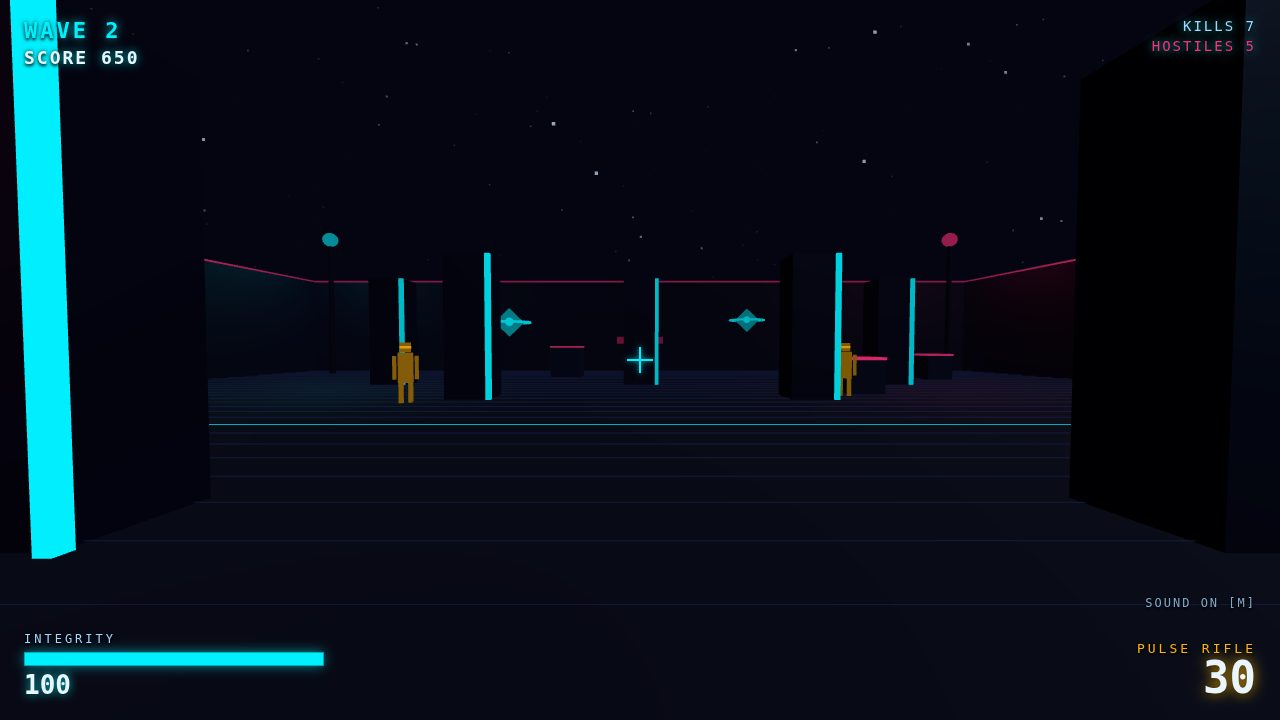
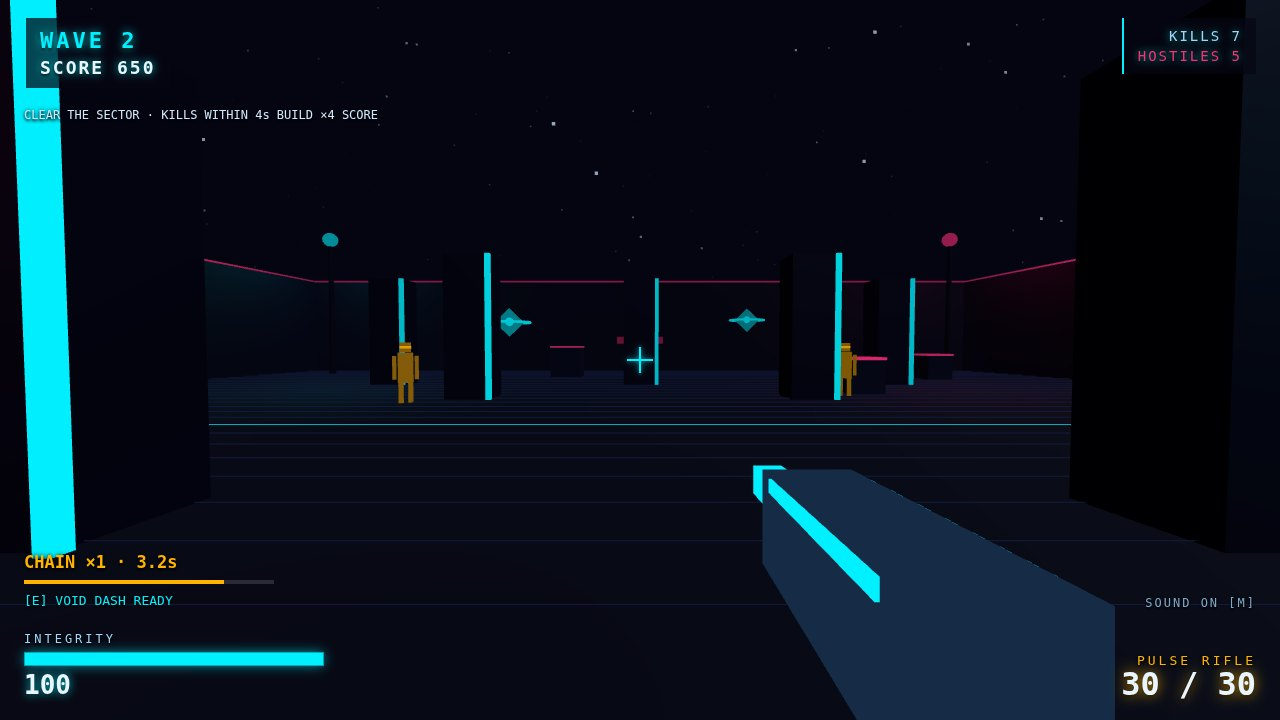
Publish verified WebGL screenshots and build evidence; bind checks to source revision

diff --git a/docs/COMPETITION-REVIEW.md b/docs/COMPETITION-REVIEW.md
@@ -3,6 +3,12 @@
 本次审阅基线：79612745b9403210dde6b35092bb952c81a9739c。
 官方来源：https://make.fun/bounty/best-game-01 和 https://make.fun/api/competitions/best-game-01/requirements 。
 
+## 后续完善与验证
+
+已补充第一人称武器模型、连杀层级反馈、结算峰值倍率/生存时长/冲刺次数、灵敏度和减少动态效果选项。GitHub Actions 已通过真实Chromium交互检查和四张截图生成（运行44032587707，源码f7aad7a）。screenshots/现已更新；下文原先的本地浏览器限制是第一轮评估的历史记录。
+
+验证证据位于 docs/evidence/，生成命令及原始会话缺口见 BUILD-RECORDS.md。原始会话、真实provider usage和官方参赛bundle仍未补齐，不应把CI通过等同于奖金资格通过。
+
 ## 结论
 
 v1 已有双武器、三种敌人、完整波次与结算。继续增加普通敌人数量的收益有限；优先提升可辨认的机制、开局/重开可操作性、缩略截图的信息层级，以及付款资格的构建记录完整性。无法据源码推算名次或保证奖金。

diff --git a/README.md b/README.md
@@ -12,7 +12,7 @@ NEON VOID is a neon arena wave-survival FPS that runs in a desktop browser from 
 node serve.ts
 ```
 
-Then open http://localhost:8080 . The local server supplies ES module MIME types; no internet connection or build step is needed during play.
+Then open http://localhost:8080. The local server supplies ES module MIME types; no internet connection or build step is needed during play.
 
 ---
 
@@ -31,7 +31,7 @@ node --experimental-loader ./tests/three-loader.mjs tests/gameplay.mjs
 MAKEFUN_OUTPUT_DIR=out node main.ts
 ```
 
-See [competition review](docs/COMPETITION-REVIEW.md) for changes, validation limits and remaining submission steps. The screenshots currently show v1; refresh them from real browser renders before entering this revision.
+See [competition review](docs/COMPETITION-REVIEW.md) for changes, validation limits and remaining submission steps. Screenshots were refreshed in Chromium by the successful [browser validation run](https://github.com/wwwzhouhui/neon-void/actions/runs/44032587707).
 
 ## Reproducible screenshots and build evidence
 
